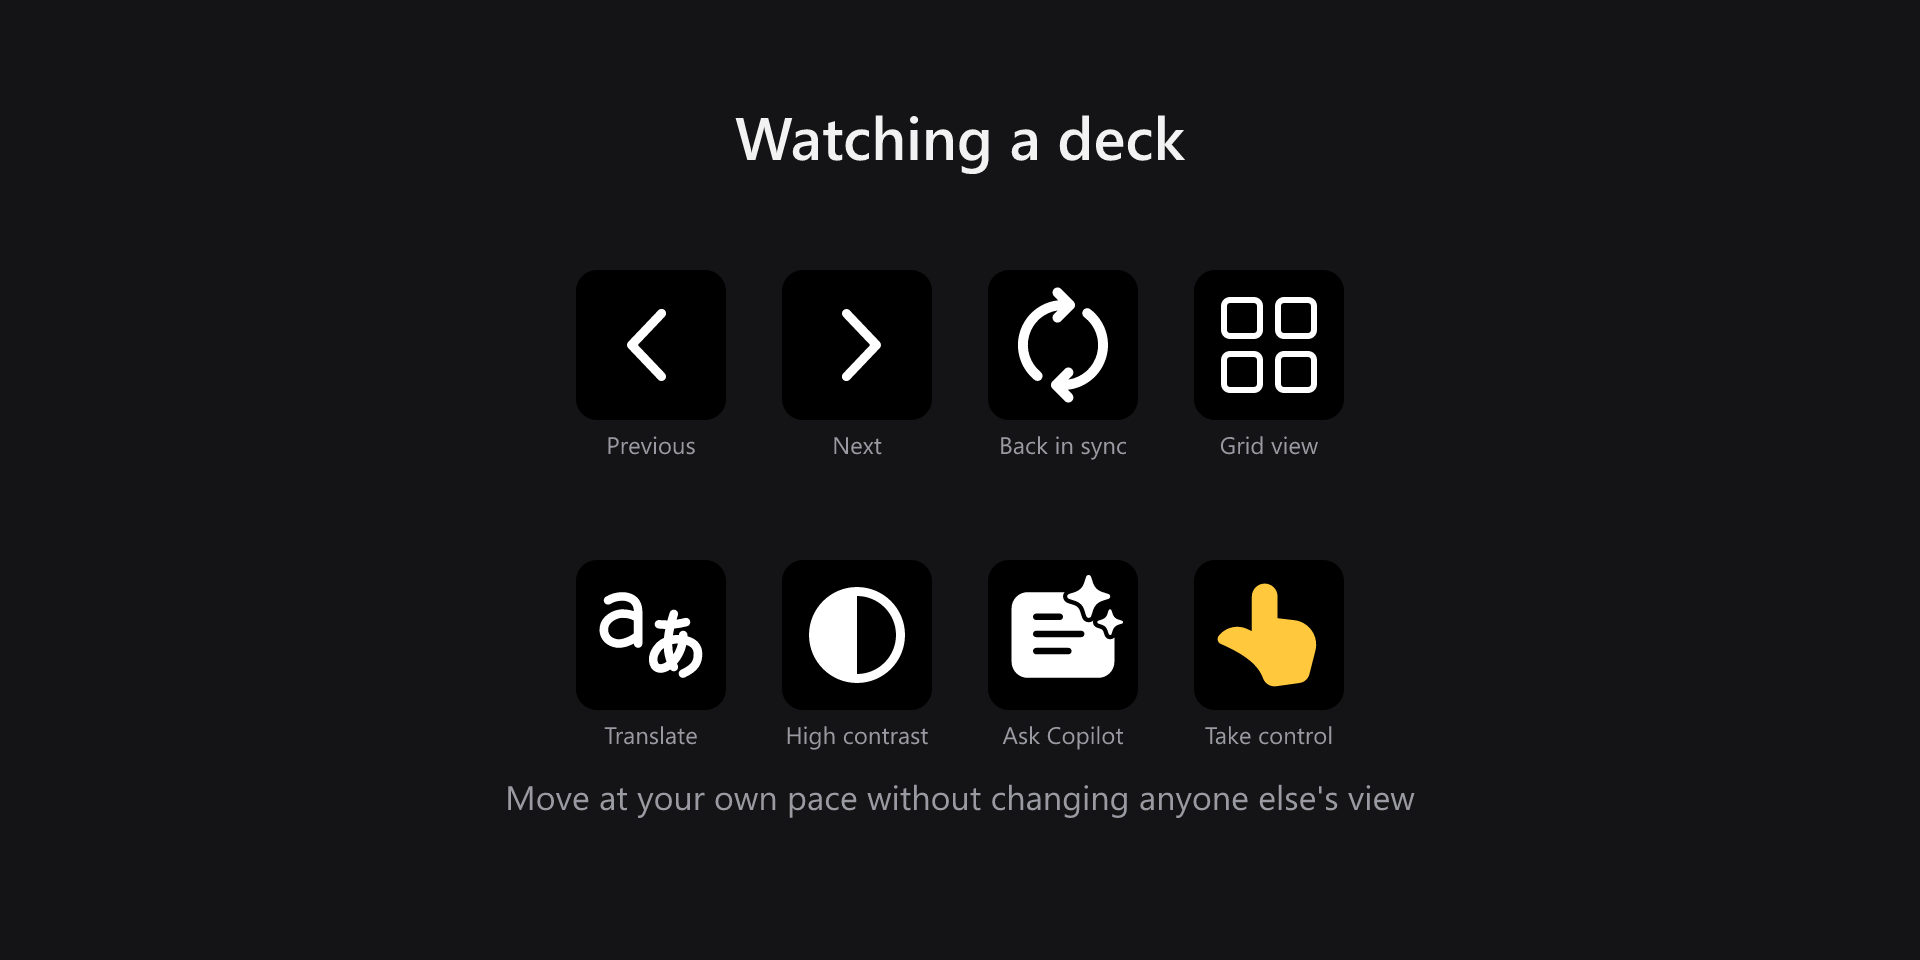
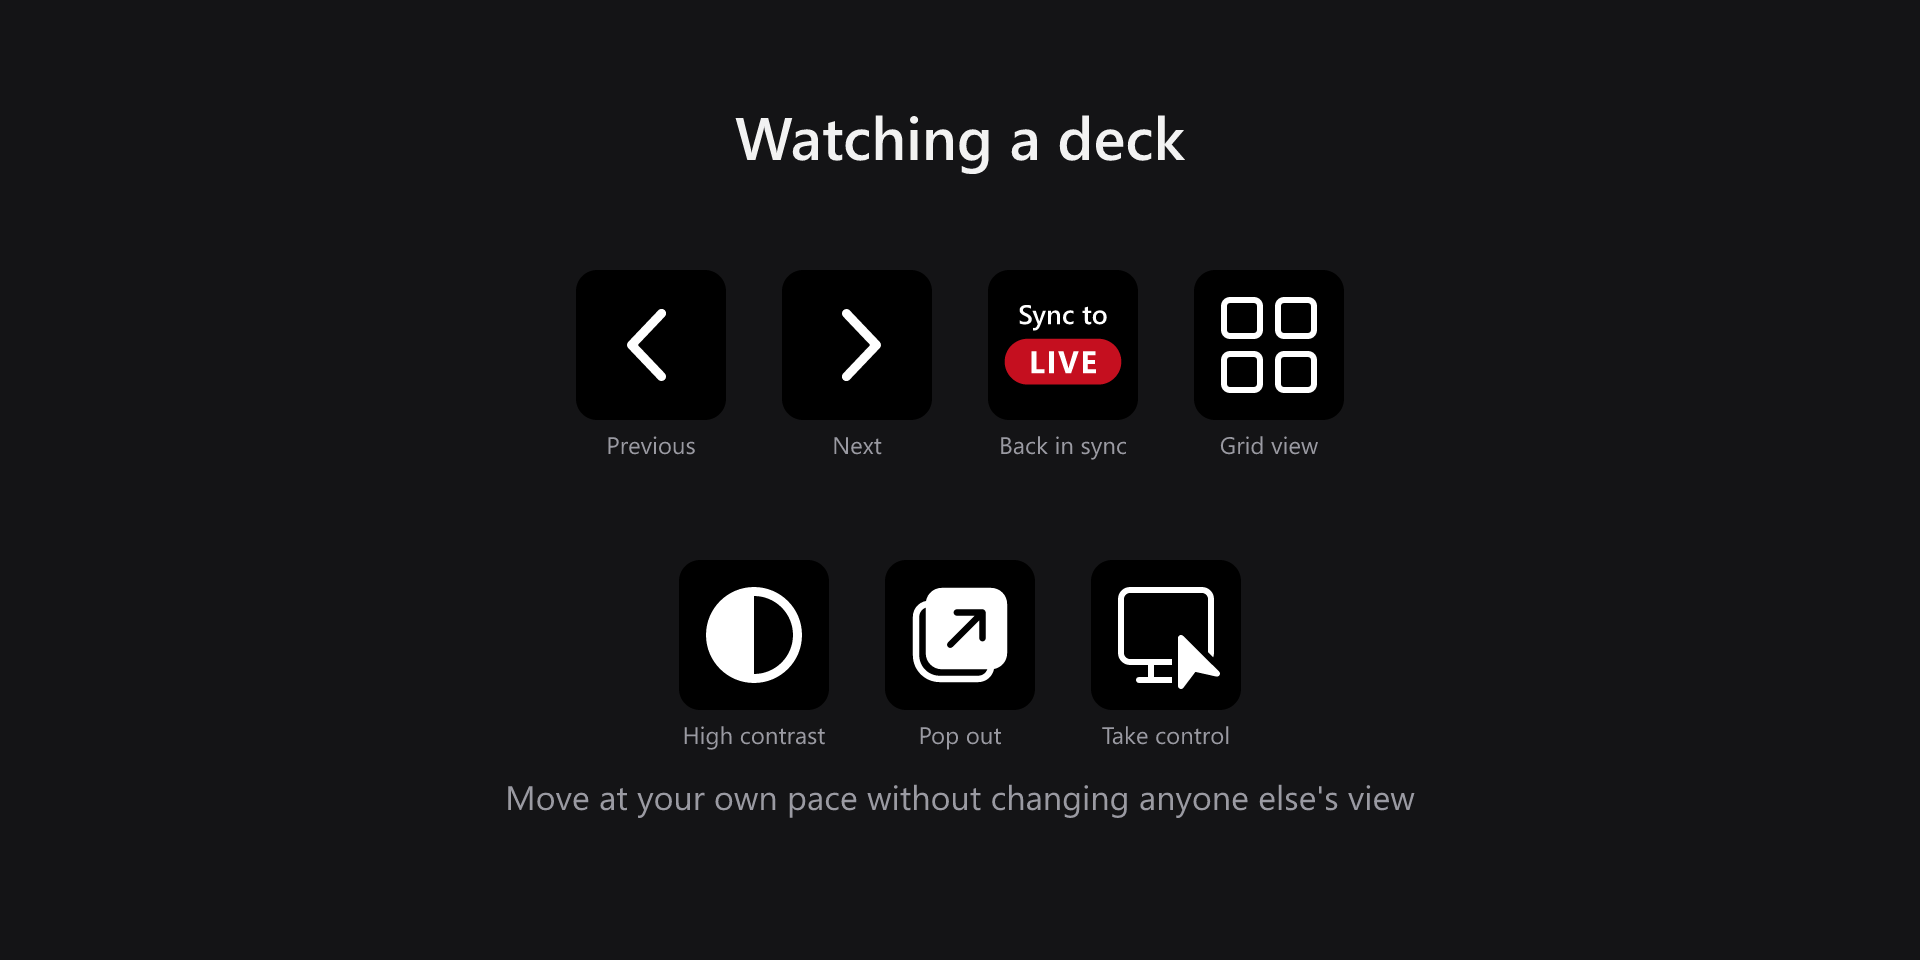
Drop translate from the watching caption
Translate slides and Ask Copilot were withdrawn from the plugin, so the
caption named a key that no longer exists. Refreshed the two gallery images
that changed with it.

Copilot-Session: f6187dd0-e8bc-4ddc-bc93-0c3d23177e51

Changed region(s): [[0.3125, 0.5938, 0.6875, 0.7188], [0.3125, 0.75, 0.6875, 0.7812], [0.5, 0.3125, 0.5938, 0.4062]]

diff --git a/index.html b/index.html
@@ -194,7 +194,7 @@
         <figure class="shot">
           <img src="img/gallery-watching.png"
                alt="Stream Deck keys for watching a PowerPoint Live deck" loading="lazy">
-          <figcaption>Watching one: move at your own pace, jump back in sync, translate the slides, or take control.</figcaption>
+          <figcaption>Watching one: move at your own pace, jump back in sync, open grid view, or take control.</figcaption>
         </figure>
         <figure class="shot">
           <img src="img/gallery-profiles.png"
